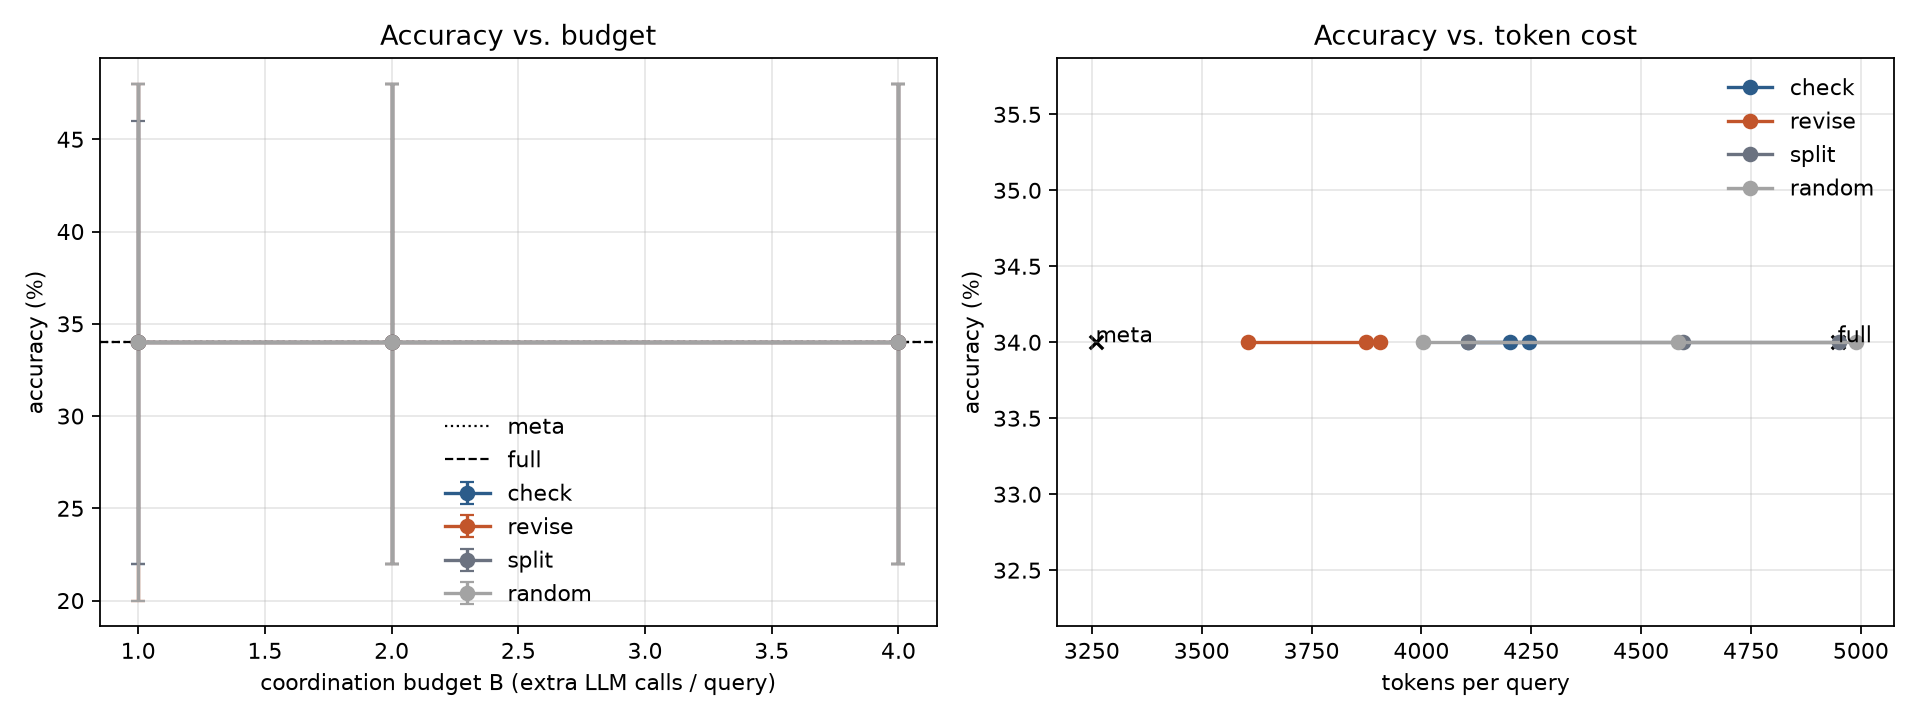
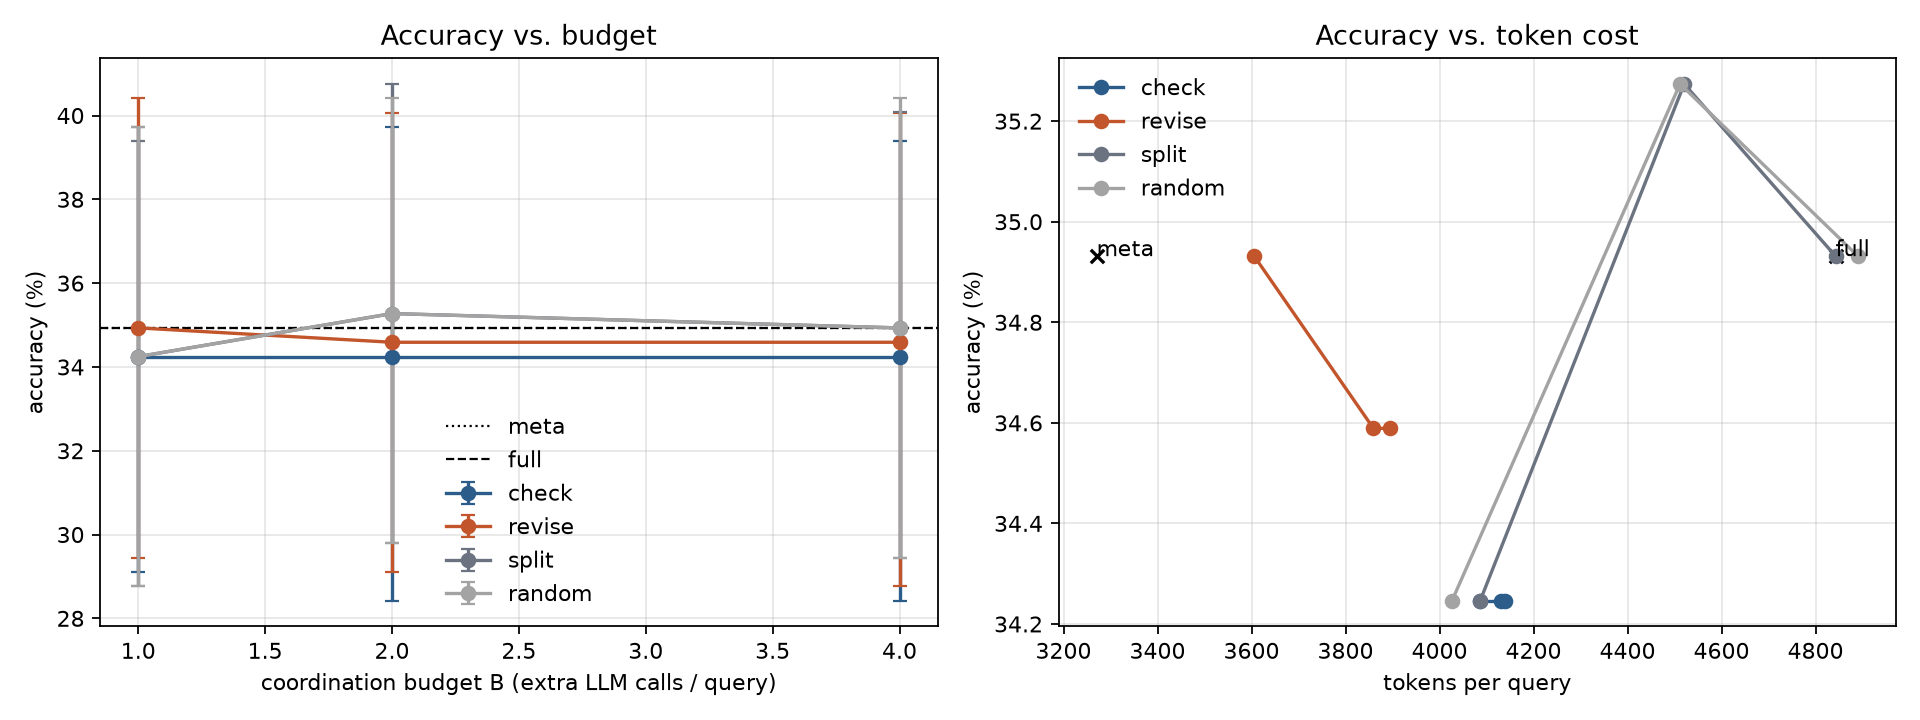
AOP reimplementation with coordination-budget controller and results

diff --git a/results/huskyqa_test/summary.md b/results/huskyqa_test/summary.md
@@ -2,56 +2,56 @@
 
 | condition | n | acc | 95% CI | acc ±5% | LLM calls | coord | check | revise | prompt tok | compl tok | latency s | vs meta | vs full |
 |---|---|---|---|---|---|---|---|---|---|---|---|---|---|
-| meta | 50 | 34.0% | [22.0%, 48.0%] | 54.0% | 7.7 | 0.00 | 0.00 | 0.00 | 2585 | 673 | 13.8 | - | +0/-0 (p=1.000) |
-| full | 50 | 34.0% | [22.0%, 46.0%] | 54.0% | 10.3 | 2.02 | 1.06 | 0.96 | 4022 | 926 | 19.6 | +0/-0 (p=1.000) | - |
-| check_B1 | 50 | 34.0% | [22.0%, 48.0%] | 54.0% | 8.7 | 1.00 | 1.00 | 0.00 | 3360 | 746 | 16.1 | +0/-0 (p=1.000) | +0/-0 (p=1.000) |
-| revise_B1 | 50 | 34.0% | [20.0%, 48.0%] | 54.0% | 8.5 | 0.56 | 0.00 | 0.56 | 2888 | 718 | 15.3 | +0/-0 (p=1.000) | +0/-0 (p=1.000) |
-| split_B1 | 50 | 34.0% | [22.0%, 46.0%] | 54.0% | 8.7 | 1.00 | 1.00 | 0.00 | 3360 | 746 | 16.1 | +0/-0 (p=1.000) | +0/-0 (p=1.000) |
-| random_B1 | 50 | 34.0% | [20.0%, 48.0%] | 54.0% | 8.8 | 1.00 | 0.68 | 0.32 | 3268 | 736 | 16.0 | +0/-0 (p=1.000) | +0/-0 (p=1.000) |
-| check_B2 | 50 | 34.0% | [22.0%, 48.0%] | 54.0% | 8.9 | 1.06 | 1.06 | 0.00 | 3439 | 762 | 16.4 | +0/-0 (p=1.000) | +0/-0 (p=1.000) |
-| revise_B2 | 50 | 34.0% | [22.0%, 48.0%] | 54.0% | 9.0 | 0.86 | 0.00 | 0.86 | 3081 | 793 | 16.7 | +0/-0 (p=1.000) | +0/-0 (p=1.000) |
-| split_B2 | 50 | 34.0% | [22.0%, 48.0%] | 54.0% | 9.6 | 1.60 | 1.04 | 0.56 | 3755 | 840 | 18.0 | +0/-0 (p=1.000) | +0/-0 (p=1.000) |
-| random_B2 | 50 | 34.0% | [22.0%, 48.0%] | 54.0% | 9.7 | 1.60 | 0.94 | 0.66 | 3733 | 850 | 18.2 | +0/-0 (p=1.000) | +0/-0 (p=1.000) |
-| check_B4 | 50 | 34.0% | [22.0%, 48.0%] | 54.0% | 8.9 | 1.10 | 1.10 | 0.00 | 3474 | 772 | 16.6 | +0/-0 (p=1.000) | +0/-0 (p=1.000) |
-| revise_B4 | 50 | 34.0% | [22.0%, 48.0%] | 54.0% | 9.0 | 0.92 | 0.00 | 0.92 | 3109 | 796 | 16.8 | +0/-0 (p=1.000) | +0/-0 (p=1.000) |
-| split_B4 | 50 | 34.0% | [22.0%, 48.0%] | 54.0% | 10.2 | 2.02 | 1.08 | 0.94 | 4022 | 930 | 19.7 | +0/-0 (p=1.000) | +0/-0 (p=1.000) |
-| random_B4 | 50 | 34.0% | [22.0%, 48.0%] | 54.0% | 10.2 | 2.08 | 1.14 | 0.94 | 4056 | 933 | 19.7 | +0/-0 (p=1.000) | +0/-0 (p=1.000) |
+| meta | 292 | 34.9% | [29.1%, 40.8%] | 57.5% | 7.6 | 0.00 | 0.00 | 0.00 | 2601 | 669 | 12.0 | - | +6/-6 (p=1.000) |
+| full | 292 | 34.9% | [29.8%, 40.4%] | 55.1% | 10.0 | 1.96 | 1.04 | 0.92 | 3926 | 916 | 16.3 | +6/-6 (p=1.000) | - |
+| check_B1 | 292 | 34.2% | [29.1%, 39.7%] | 55.1% | 8.6 | 1.00 | 1.00 | 0.00 | 3336 | 750 | 13.7 | +3/-5 (p=0.727) | +2/-4 (p=0.688) |
+| revise_B1 | 292 | 34.9% | [29.5%, 40.4%] | 54.8% | 8.4 | 0.55 | 0.00 | 0.55 | 2861 | 744 | 13.2 | +4/-4 (p=1.000) | +2/-2 (p=1.000) |
+| split_B1 | 292 | 34.2% | [28.8%, 39.4%] | 55.1% | 8.6 | 1.00 | 1.00 | 0.00 | 3336 | 750 | 13.7 | +3/-5 (p=0.727) | +2/-4 (p=0.688) |
+| random_B1 | 292 | 34.2% | [28.8%, 39.7%] | 54.5% | 8.7 | 1.00 | 0.73 | 0.27 | 3264 | 762 | 13.8 | +3/-5 (p=0.727) | +2/-4 (p=0.688) |
+| check_B2 | 292 | 34.2% | [28.4%, 39.7%] | 55.1% | 8.6 | 1.04 | 1.04 | 0.00 | 3374 | 757 | 13.8 | +3/-5 (p=0.727) | +2/-4 (p=0.688) |
+| revise_B2 | 292 | 34.6% | [29.1%, 40.1%] | 54.8% | 8.8 | 0.86 | 0.00 | 0.86 | 3061 | 799 | 14.1 | +5/-6 (p=1.000) | +0/-1 (p=1.000) |
+| split_B2 | 292 | 35.3% | [29.8%, 40.8%] | 55.5% | 9.4 | 1.57 | 1.01 | 0.56 | 3671 | 849 | 15.3 | +5/-4 (p=1.000) | +2/-1 (p=1.000) |
+| random_B2 | 292 | 35.3% | [29.8%, 40.4%] | 56.5% | 9.4 | 1.57 | 0.96 | 0.61 | 3658 | 853 | 15.3 | +5/-4 (p=1.000) | +2/-1 (p=1.000) |
+| check_B4 | 292 | 34.2% | [28.4%, 39.4%] | 55.1% | 8.6 | 1.04 | 1.04 | 0.00 | 3380 | 759 | 13.9 | +3/-5 (p=0.727) | +2/-4 (p=0.688) |
+| revise_B4 | 292 | 34.6% | [28.8%, 40.1%] | 54.5% | 8.9 | 0.91 | 0.00 | 0.91 | 3089 | 806 | 14.2 | +5/-6 (p=1.000) | +0/-1 (p=1.000) |
+| split_B4 | 292 | 34.9% | [29.5%, 40.1%] | 55.1% | 10.0 | 1.96 | 1.04 | 0.91 | 3925 | 917 | 16.3 | +6/-6 (p=1.000) | +0/-0 (p=1.000) |
+| random_B4 | 292 | 34.9% | [29.5%, 40.4%] | 55.1% | 10.0 | 2.02 | 1.11 | 0.91 | 3966 | 925 | 16.4 | +6/-6 (p=1.000) | +0/-0 (p=1.000) |
 
 ### Process statistics
 
 | condition | checks that changed plan | re-describe | plan-in-detail | replan | RM reassignments / query | errors |
 |---|---|---|---|---|---|---|
-| meta | - | 0 | 0 | 0 | 0.00 | 0 |
-| full | 8% | 2 | 41 | 5 | 0.34 | 0 |
-| check_B1 | 6% | 0 | 0 | 0 | 0.34 | 0 |
-| revise_B1 | - | 1 | 22 | 5 | 0.32 | 0 |
-| split_B1 | 6% | 0 | 0 | 0 | 0.34 | 0 |
-| random_B1 | 9% | 1 | 11 | 4 | 0.34 | 0 |
-| check_B2 | 8% | 0 | 0 | 0 | 0.34 | 0 |
-| revise_B2 | - | 1 | 37 | 5 | 0.32 | 0 |
-| split_B2 | 8% | 1 | 22 | 5 | 0.34 | 0 |
-| random_B2 | 11% | 1 | 27 | 5 | 0.36 | 0 |
-| check_B4 | 9% | 0 | 0 | 0 | 0.34 | 0 |
-| revise_B4 | - | 2 | 39 | 5 | 0.32 | 0 |
-| split_B4 | 9% | 2 | 40 | 5 | 0.34 | 0 |
-| random_B4 | 14% | 2 | 40 | 5 | 0.36 | 0 |
+| meta | - | 0 | 0 | 0 | 0.00 | 1 |
+| full | 4% | 27 | 217 | 26 | 0.32 | 1 |
+| check_B1 | 4% | 0 | 0 | 0 | 0.29 | 1 |
+| revise_B1 | - | 13 | 125 | 24 | 0.30 | 1 |
+| split_B1 | 4% | 0 | 0 | 0 | 0.29 | 1 |
+| random_B1 | 4% | 4 | 61 | 13 | 0.30 | 1 |
+| check_B2 | 4% | 0 | 0 | 0 | 0.29 | 1 |
+| revise_B2 | - | 24 | 204 | 24 | 0.32 | 1 |
+| split_B2 | 4% | 13 | 124 | 26 | 0.30 | 1 |
+| random_B2 | 10% | 14 | 141 | 23 | 0.32 | 1 |
+| check_B4 | 5% | 0 | 0 | 0 | 0.29 | 1 |
+| revise_B4 | - | 27 | 215 | 24 | 0.32 | 1 |
+| split_B4 | 5% | 26 | 215 | 26 | 0.32 | 1 |
+| random_B4 | 11% | 24 | 215 | 26 | 0.33 | 1 |
 
 ### Effect of coordination relative to meta
 
 | condition | plans changed | answers changed | wrong->right | right->wrong |
 |---|---|---|---|---|
-| full | 21/50 | 18 | 0 | 0 |
-| check_B1 | 3/50 | 8 | 0 | 0 |
-| revise_B1 | 15/50 | 15 | 0 | 0 |
-| split_B1 | 3/50 | 8 | 0 | 0 |
-| random_B1 | 10/50 | 11 | 0 | 0 |
-| check_B2 | 3/50 | 8 | 0 | 0 |
-| revise_B2 | 18/50 | 17 | 0 | 0 |
-| split_B2 | 17/50 | 16 | 0 | 0 |
-| random_B2 | 17/50 | 15 | 0 | 0 |
-| check_B4 | 3/50 | 9 | 0 | 0 |
-| revise_B4 | 19/50 | 17 | 0 | 0 |
-| split_B4 | 21/50 | 19 | 0 | 0 |
-| random_B4 | 19/50 | 19 | 0 | 0 |
+| full | 101/292 | 74 | 6 | 6 |
+| check_B1 | 12/292 | 41 | 3 | 5 |
+| revise_B1 | 75/292 | 63 | 4 | 4 |
+| split_B1 | 12/292 | 41 | 3 | 5 |
+| random_B1 | 43/292 | 49 | 3 | 5 |
+| check_B2 | 12/292 | 41 | 3 | 5 |
+| revise_B2 | 91/292 | 70 | 5 | 6 |
+| split_B2 | 82/292 | 65 | 5 | 4 |
+| random_B2 | 76/292 | 60 | 5 | 4 |
+| check_B4 | 12/292 | 42 | 3 | 5 |
+| revise_B4 | 94/292 | 72 | 5 | 6 |
+| split_B4 | 100/292 | 74 | 6 | 6 |
+| random_B4 | 88/292 | 69 | 6 | 6 |
 
 _acc ±5% counts numeric answers within 5% of gold (facts drift over time); vs X = +queries only this condition got right / -queries only X got right, exact McNemar p-value on the same queries. Costs are means per query; latency = sum of LLM call latencies (cached calls keep their original latency)._

diff --git a/results_gpt4o/huskyqa_test/summary.md b/results_gpt4o/huskyqa_test/summary.md
@@ -1,0 +1,48 @@
+## Results: huskyqa_test
+
+| condition | n | acc | 95% CI | acc ±5% | LLM calls | coord | check | revise | prompt tok | compl tok | latency s | vs meta | vs full |
+|---|---|---|---|---|---|---|---|---|---|---|---|---|---|
+| meta | 292 | 43.5% | [37.7%, 49.0%] | 68.2% | 8.0 | 0.00 | 0.00 | 0.00 | 2718 | 837 | 14.2 | - | +9/-9 (p=1.000) |
+| full | 292 | 43.5% | [38.0%, 49.0%] | 68.2% | 10.4 | 2.21 | 1.16 | 1.04 | 4240 | 1098 | 14.4 | +9/-9 (p=1.000) | - |
+| check_B1 | 292 | 43.8% | [38.0%, 49.3%] | 68.5% | 9.0 | 1.00 | 1.00 | 0.00 | 3524 | 960 | 15.2 | +7/-6 (p=1.000) | +8/-7 (p=1.000) |
+| revise_B1 | 292 | 43.8% | [38.0%, 49.3%] | 68.8% | 8.7 | 0.60 | 0.00 | 0.60 | 3029 | 887 | 12.6 | +7/-6 (p=1.000) | +4/-3 (p=1.000) |
+| random_B1 | 292 | 44.5% | [39.0%, 50.0%] | 68.8% | 9.1 | 1.00 | 0.71 | 0.29 | 3444 | 949 | 15.2 | +9/-6 (p=0.607) | +7/-4 (p=0.549) |
+| check_B2 | 292 | 44.2% | [38.4%, 49.7%] | 68.8% | 9.2 | 1.16 | 1.16 | 0.00 | 3653 | 992 | 15.4 | +7/-5 (p=0.774) | +8/-6 (p=0.791) |
+| revise_B2 | 292 | 43.2% | [37.7%, 48.6%] | 68.5% | 9.1 | 0.96 | 0.00 | 0.96 | 3231 | 919 | 13.0 | +7/-8 (p=1.000) | +3/-4 (p=1.000) |
+| random_B2 | 292 | 43.5% | [37.7%, 49.0%] | 67.5% | 9.9 | 1.67 | 1.02 | 0.65 | 3907 | 1042 | 13.8 | +11/-11 (p=1.000) | +4/-4 (p=1.000) |
+| check_B4 | 292 | 44.2% | [38.4%, 49.7%] | 68.8% | 9.3 | 1.26 | 1.26 | 0.00 | 3745 | 1021 | 15.5 | +7/-5 (p=0.774) | +8/-6 (p=0.791) |
+| revise_B4 | 292 | 43.2% | [37.3%, 49.0%] | 68.5% | 9.2 | 1.00 | 0.00 | 1.00 | 3254 | 922 | 13.0 | +7/-8 (p=1.000) | +3/-4 (p=1.000) |
+| random_B4 | 292 | 43.8% | [38.0%, 49.7%] | 68.2% | 10.5 | 2.26 | 1.25 | 1.01 | 4304 | 1129 | 14.5 | +10/-9 (p=1.000) | +2/-1 (p=1.000) |
+
+### Process statistics
+
+| condition | checks that changed plan | re-describe | plan-in-detail | replan | RM reassignments / query | errors |
+|---|---|---|---|---|---|---|
+| meta | - | 0 | 0 | 0 | 0.00 | 0 |
+| full | 20% | 28 | 236 | 40 | 0.50 | 0 |
+| check_B1 | 16% | 0 | 0 | 0 | 0.37 | 0 |
+| revise_B1 | - | 12 | 128 | 35 | 0.36 | 0 |
+| random_B1 | 19% | 4 | 63 | 17 | 0.39 | 0 |
+| check_B2 | 20% | 0 | 0 | 0 | 0.42 | 0 |
+| revise_B2 | - | 25 | 219 | 36 | 0.37 | 0 |
+| random_B2 | 20% | 12 | 143 | 36 | 0.45 | 0 |
+| check_B4 | 23% | 0 | 0 | 0 | 0.45 | 0 |
+| revise_B4 | - | 29 | 227 | 36 | 0.37 | 0 |
+| random_B4 | 25% | 23 | 228 | 44 | 0.49 | 0 |
+
+### Effect of coordination relative to meta
+
+| condition | plans changed | answers changed | wrong->right | right->wrong |
+|---|---|---|---|---|
+| full | 183/292 | 95 | 9 | 9 |
+| check_B1 | 48/292 | 60 | 7 | 6 |
+| revise_B1 | 140/292 | 79 | 7 | 6 |
+| random_B1 | 104/292 | 67 | 9 | 6 |
+| check_B2 | 44/292 | 62 | 7 | 5 |
+| revise_B2 | 161/292 | 86 | 7 | 8 |
+| random_B2 | 168/292 | 87 | 11 | 11 |
+| check_B4 | 44/292 | 62 | 7 | 5 |
+| revise_B4 | 161/292 | 85 | 7 | 8 |
+| random_B4 | 181/292 | 95 | 10 | 9 |
+
+_acc ±5% counts numeric answers within 5% of gold (facts drift over time); vs X = +queries only this condition got right / -queries only X got right, exact McNemar p-value on the same queries. Costs are means per query; latency = sum of LLM call latencies (cached calls keep their original latency)._
